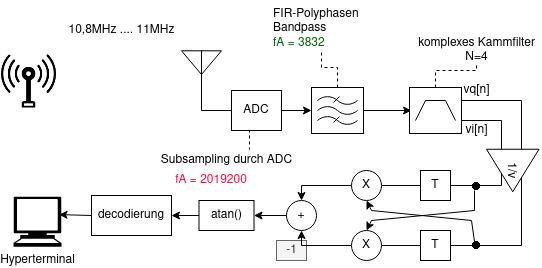
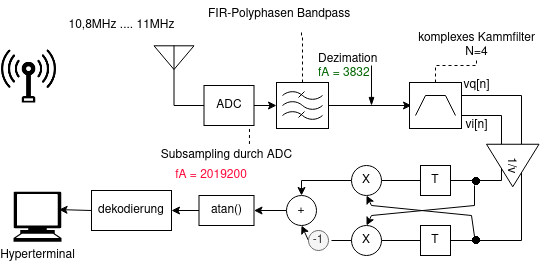
app img

diff --git a/vortrag/slides/presentation.tex b/vortrag/slides/presentation.tex
@@ -79,8 +79,9 @@
 \frame{
   \frametitle{Softwareradio}
   \begin{itemize}
-  \item Es wird nicht auf Zwischenfrequenzen gemischt
+  \item CPFSK modulierte Wetterdaten demodulieren
   \item Kurzwellenband liegt zwischen 10.1MHz...11.1MHz
+  \item Es wird nicht auf Zwischenfrequenzen gemischt
   \item Direktes Unterabtasten durch ADC am Empfänger
   \end{itemize}
 }
@@ -88,18 +89,20 @@
 \section{Signalfluss Empfänger}
 \frame{
   \frametitle{Signalfluss Empfänger}
+  \includegraphics[width=\textwidth]{images/signalfluss.png}
   \begin{columns}
-    \begin{column}{0.3\textwidth}
+    \begin{column}{0.5\textwidth}
        \begin{itemize}
          \item 1. Dezimationsstufe
          \item 2. Komplexes Kammfilter
-         \item 3. FM-Verzögerungsdemodulator
-         \item 4. Dekodierer
        \end{itemize}
     \end{column}
-    \begin{column}{0.7\textwidth}
+    \begin{column}{0.5\textwidth}
         \begin{center}
-         \includegraphics[width=0.6\textwidth]{images/signalfluss.png}
+         \begin{itemize}
+          \item 3. FM-Verzögerungsdemodulator
+          \item 4. Dekodierer
+         \end{itemize}
          \end{center}
     \end{column}
   \end{columns}
@@ -108,7 +111,8 @@
 
 \section{Bestimmung der Abtastfrequenzen}
 \begin{frame}
-  Die benötigte Bandbreite $B = 704Hz$ wurde ausgehend von $fT$ bestimmt, dass Nutzsignal fällt in den Bereich
+  Die benötigte Bandbreite $B = 704Hz / 1MHz$ wurde ausgehend von $fT$ bestimmt, 
+  dass Nutzsignal fällt in den Bereich
   in dem $99\%$ der Signalenergie liegen.
   \frametitle{Bestimmung der Abtastfrequenzen}
   \begin{columns}
@@ -119,8 +123,6 @@
       \includegraphics[width=\textwidth, height=0.7\textheight]{images/fAgreen.jpg}
     \end{column}
   \end{columns}
-  
-
 \end{frame}
 
 \section{Dezimationsstufe}
@@ -128,10 +130,12 @@
   \frametitle{Dezimationsstufe}
   \begin{columns}
     \begin{column}{0.5\textwidth}
+      Vorgehen
       \begin{itemize}
-        \item In MATLAB Bandpass als FIR-Filter ausgelegt
-        \item Dezimationsfaktor bestimmt: $\frac{fA_{red}}{fA_{green}} \approx 527$
-        \item Mit Python einen C-Headerfile mit den Polyphasen erzeugt.
+        \item 1. In MATLAB Bandpass als FIR-Filter ausgelegt
+        \item 2. Dezimationsfaktor bestimmt: $\frac{fA_{red}}{fA_{green}} \approx 527$
+        \item 3. Polyphasen als \textit{const short} exportieren
+        \item 4. ANSI-C Implementierung
       \end{itemize}
     \end{column}
     \begin{column}{0.5\textwidth}
@@ -143,7 +147,6 @@
   \end{columns}
 }
 
-\subsection{Dezimationsstufe in MATLAB}
 \frame{
   \frametitle{Dezimationsstufe in MATLAB}
   \begin{columns}
@@ -162,41 +165,24 @@
   \end{columns}
 }
 
-\subsection{Dezimationsstufe in ANSI-C}
-\frame{
+\begin{frame}[fragile]
   \frametitle{Dezimationsstufe in ANSI-C}
   \begin{columns}
-    \begin{column}{0.5\textwidth}
-      Zunächst wurden die Koeffizienten des FIR-Bandpass exportiert.
-      Anschließend mithilfe eines Pythonscripts in $527$ Polyphasen
-      aufgeteilt, ggf. mit nullen aufgefüllt, und als \textit{const short}-Arrays
-      in ein C-File exportiert.
-    \end{column}
-    \begin{column}{0.5\textwidth}
-      \begin{itemize}
-        \item \textit{const short} für effiziente Speichernutzung
-        \item effizienter Zugriff nur durch Pointerreferenz
-      \end{itemize}
-    \end{column}
-  \end{columns}
-}
-
-\frame{
-  \frametitle{Dezimationsstufe in ANSI-C}
-  \begin{columns}
-    \begin{column}{0.5\textwidth}
+    \begin{column}{0.7\textwidth}
       \begin{itemize}
         \item Die Filterpolyphasen werden in einem Array gespeichert
-        \includegraphics[width=0.9\textwidth]{images/bp_filter.png}
-        \item Die einzelnen Polyphasen, werden nach und nach dem FIR übergeben.
-        \includegraphics[width=0.9\textwidth]{images/FIR_call.png}
+        \item Die einzelnen Polyphasen, werden nach und nach dem FIR übergeben
+        \item Gefiltert und dezimiert
+        \item Durch das dezimieren wird das Signal ein weiteres mal unterabgetastet ($fA_{green} = 3832Hz$)
+        \item Das eigentliche Nutzsignal wird in das Basisband gemischt
       \end{itemize}
     \end{column}
-    \begin{column}{0.5\textwidth}
-      Bild Ausgang Bandpass
+    \begin{column}{0.7\textwidth}
+
     \end{column}
   \end{columns}
-}
+  
+\end{frame}
 
 \section{Hilbert Transformator}
 
@@ -212,8 +198,8 @@
       \end{itemize}
     \end{column}
     \begin{column}{0.5\textwidth}
-      \includegraphics[height=0.4\textheight]{images/sin.jpg}
       \includegraphics[height=0.4\textheight]{images/hilberto.png}
+      \includegraphics[height=0.6\textheight]{images/hilber_vgl.jpg}
     \end{column}
   \end{columns}
 }
@@ -247,6 +233,22 @@
 		\end{column}
 	\end{columns}
 \end{frame}
+
+\frame{
+	\frametitle{Verzögerungsdemodulator nach Hilbert}
+  \begin{columns}
+    \begin{column}{0.4\textwidth}
+      \includegraphics[height=0.3\textheight]{images/sin.jpg}
+   \end{column}    
+   \begin{column}{0.6\textwidth}
+     \includegraphics[height=0.6\textheight]{images/rect_demod.jpg}
+     \begin{itemize}
+       \item Bei ungeeigneter Trägerfrequenz, ist das Signal nicht mehr demodulierbar
+     \end{itemize}
+   \end{column}
+  \end{columns}
+}
+
 
 
 \section{Komplexes Kammfilter}
